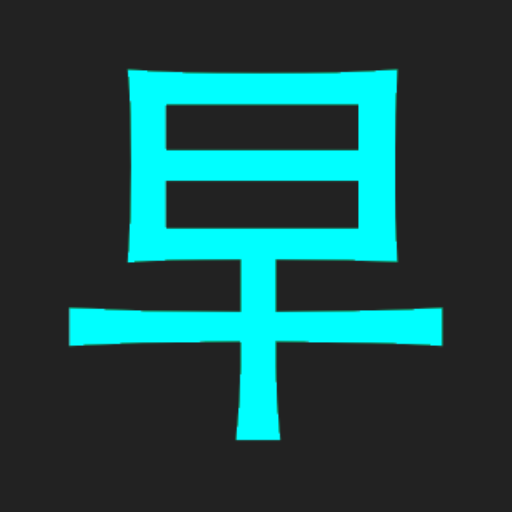
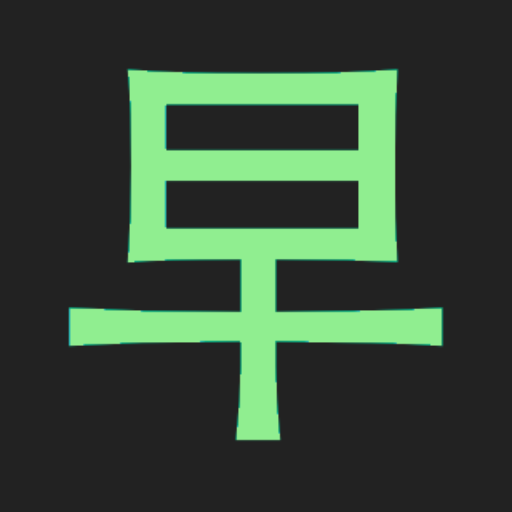
Theme around the word highlight color

Changed region(s): [[0.125, 0.125, 0.875, 0.875]]

diff --git a/public/index.html b/public/index.html
@@ -14,8 +14,8 @@
   <meta property="og:type" content="website" />
   <meta property="og:title" content="hayauchi" />
   <meta property="og:url" content="https://hayauchi.club" />
-  <meta property="og:image" content="https://hayauchi.club/android-chrome-512x512.png" />
-  <meta name="twitter:image" content="https://hayauchi.club/android-chrome-512x512.png" />
+  <meta property="og:image" content="https://hayauchi.club/android-chrome-512x512.png?v=1" />
+  <meta name="twitter:image" content="https://hayauchi.club/android-chrome-512x512.png?v=1" />
 </head>
 
 <body>

diff --git a/src/App.vue b/src/App.vue
@@ -348,7 +348,7 @@ h1
 
 
 .wordsets h6
-  color: magenta
+  color: lightgreen
   margin-top: 1rem
 
   &:first-child
